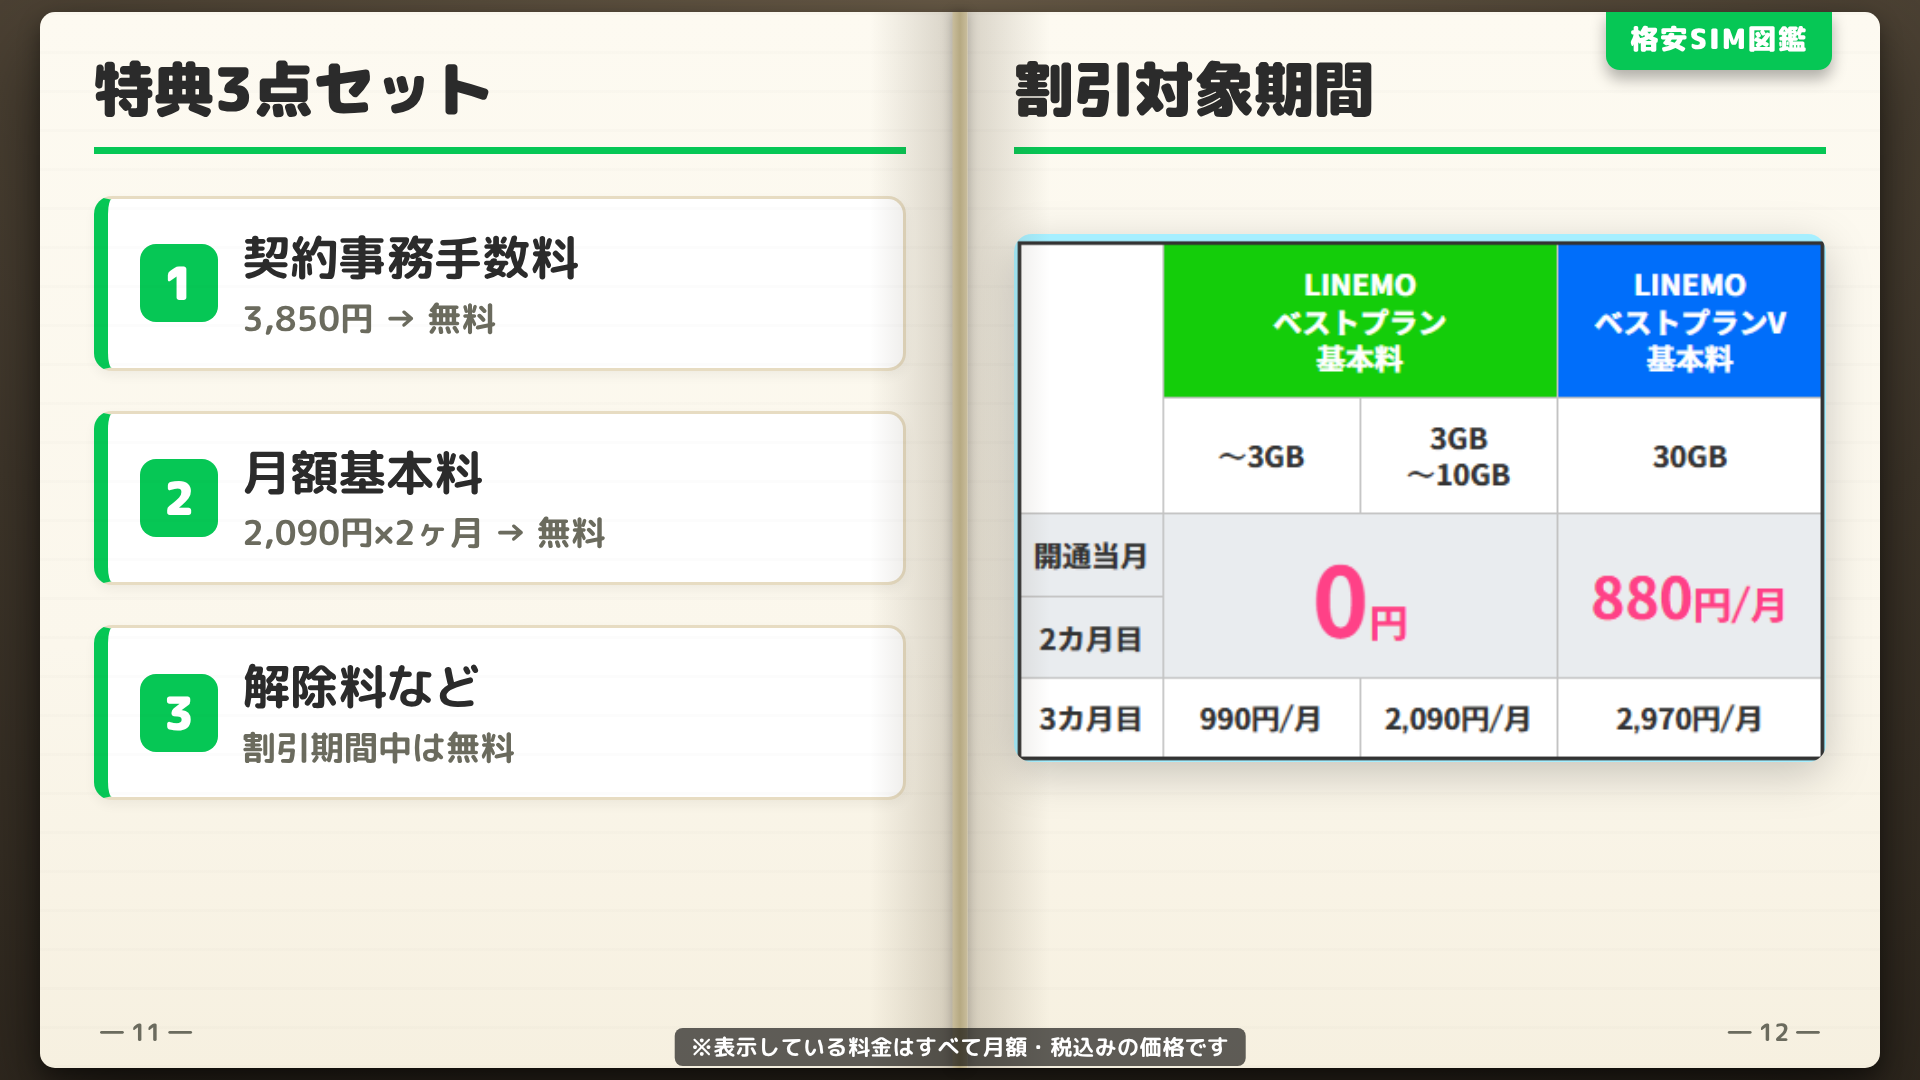
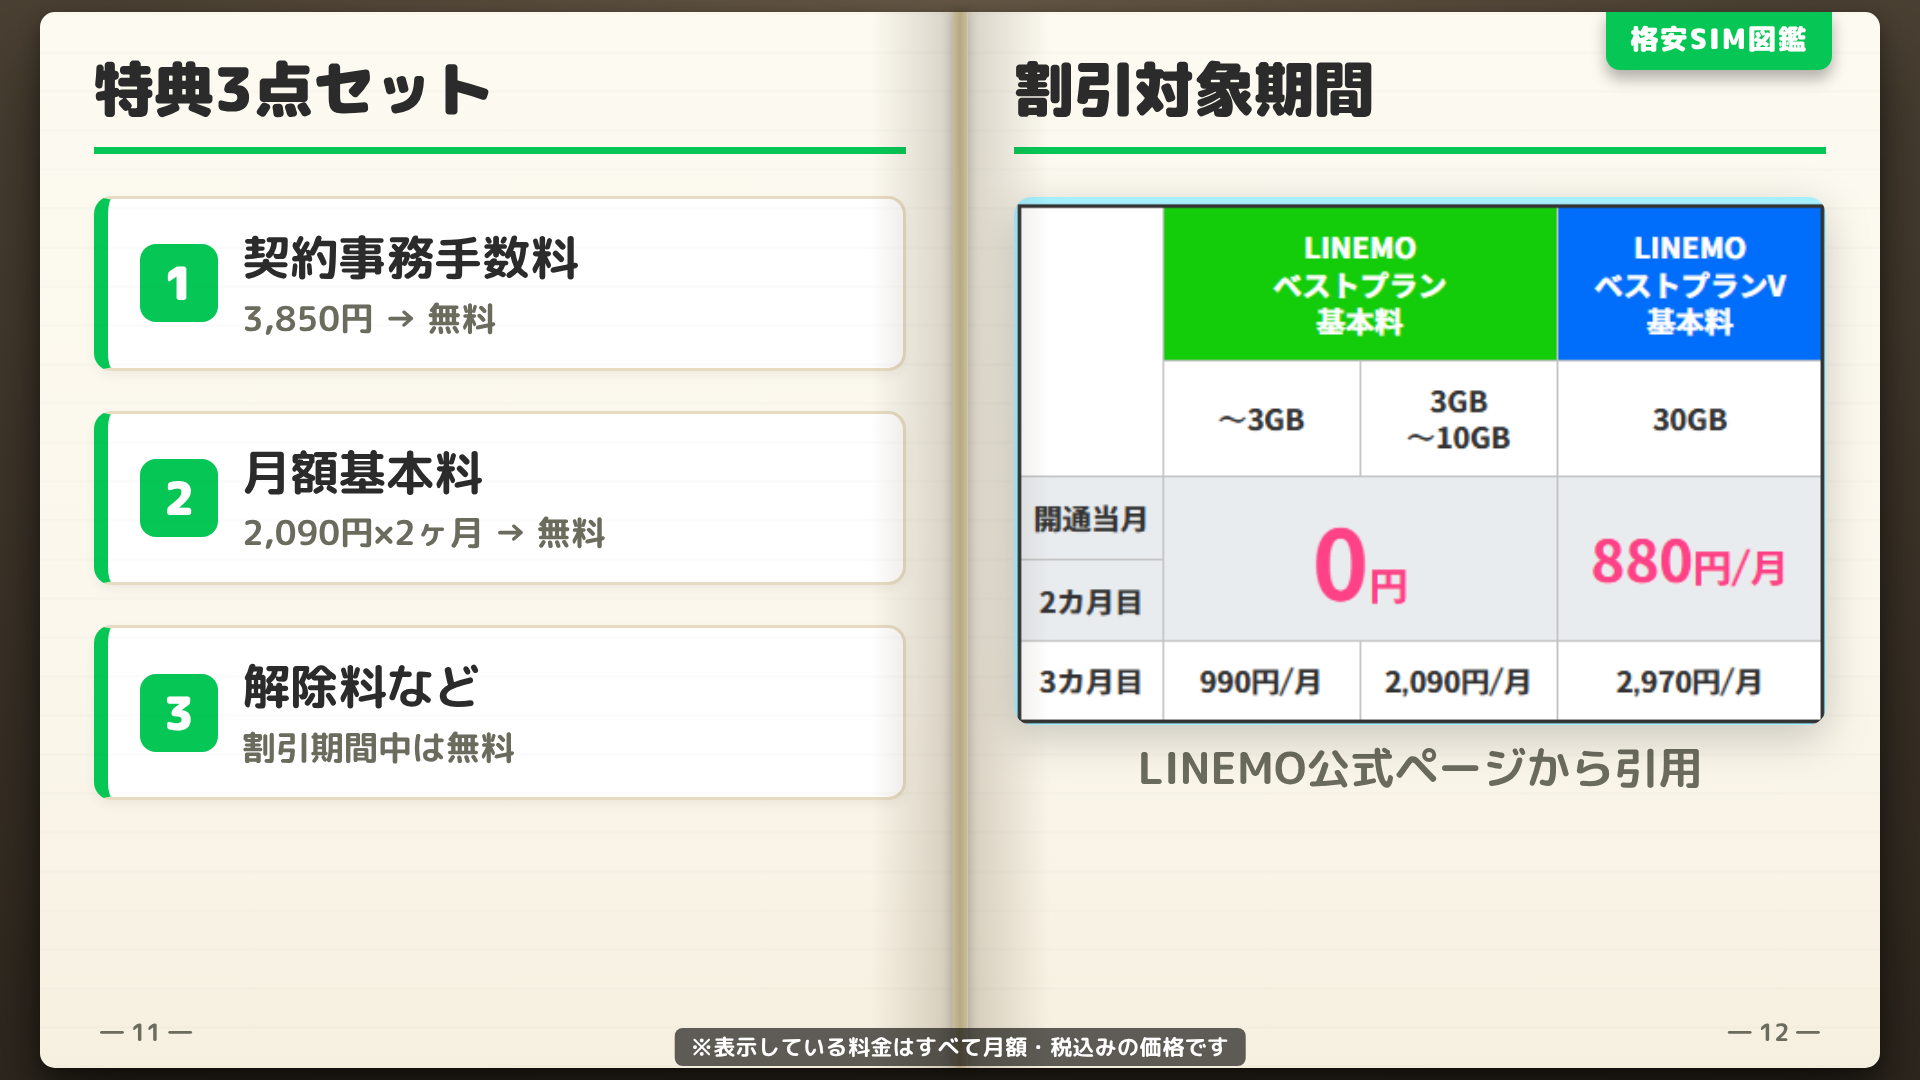
スライド改修

Changed region(s): [[0.5312, 0.1833, 0.9688, 0.4583], [0.5312, 0.4583, 0.9688, 0.7333], [0.8125, 0.4889, 0.9375, 0.5806]]

diff --git a/slides.html b/slides.html
@@ -478,8 +478,9 @@
       <div class="page right"><span class="index-tab">格安SIM図鑑</span>
         <div class="page-head">割引対象期間</div>
         <div class="page-body center">
-          <div class="visual">
+          <div class="visual" style="display:flex;flex-direction:column;align-items:center;">
             <img src="public/images/temp/linemo/トライアルキャンペーン2_割引対象期間_表.png" alt="LINEMOトライアルキャンペーン2の割引対象期間表" style="width:100%;height:auto;">
+            <div class="note" style="margin-top:12px;text-align:center;">LINEMO公式ページから引用</div>
           </div>
         </div><span class="page-no">― 12 ―</span>
       </div>
